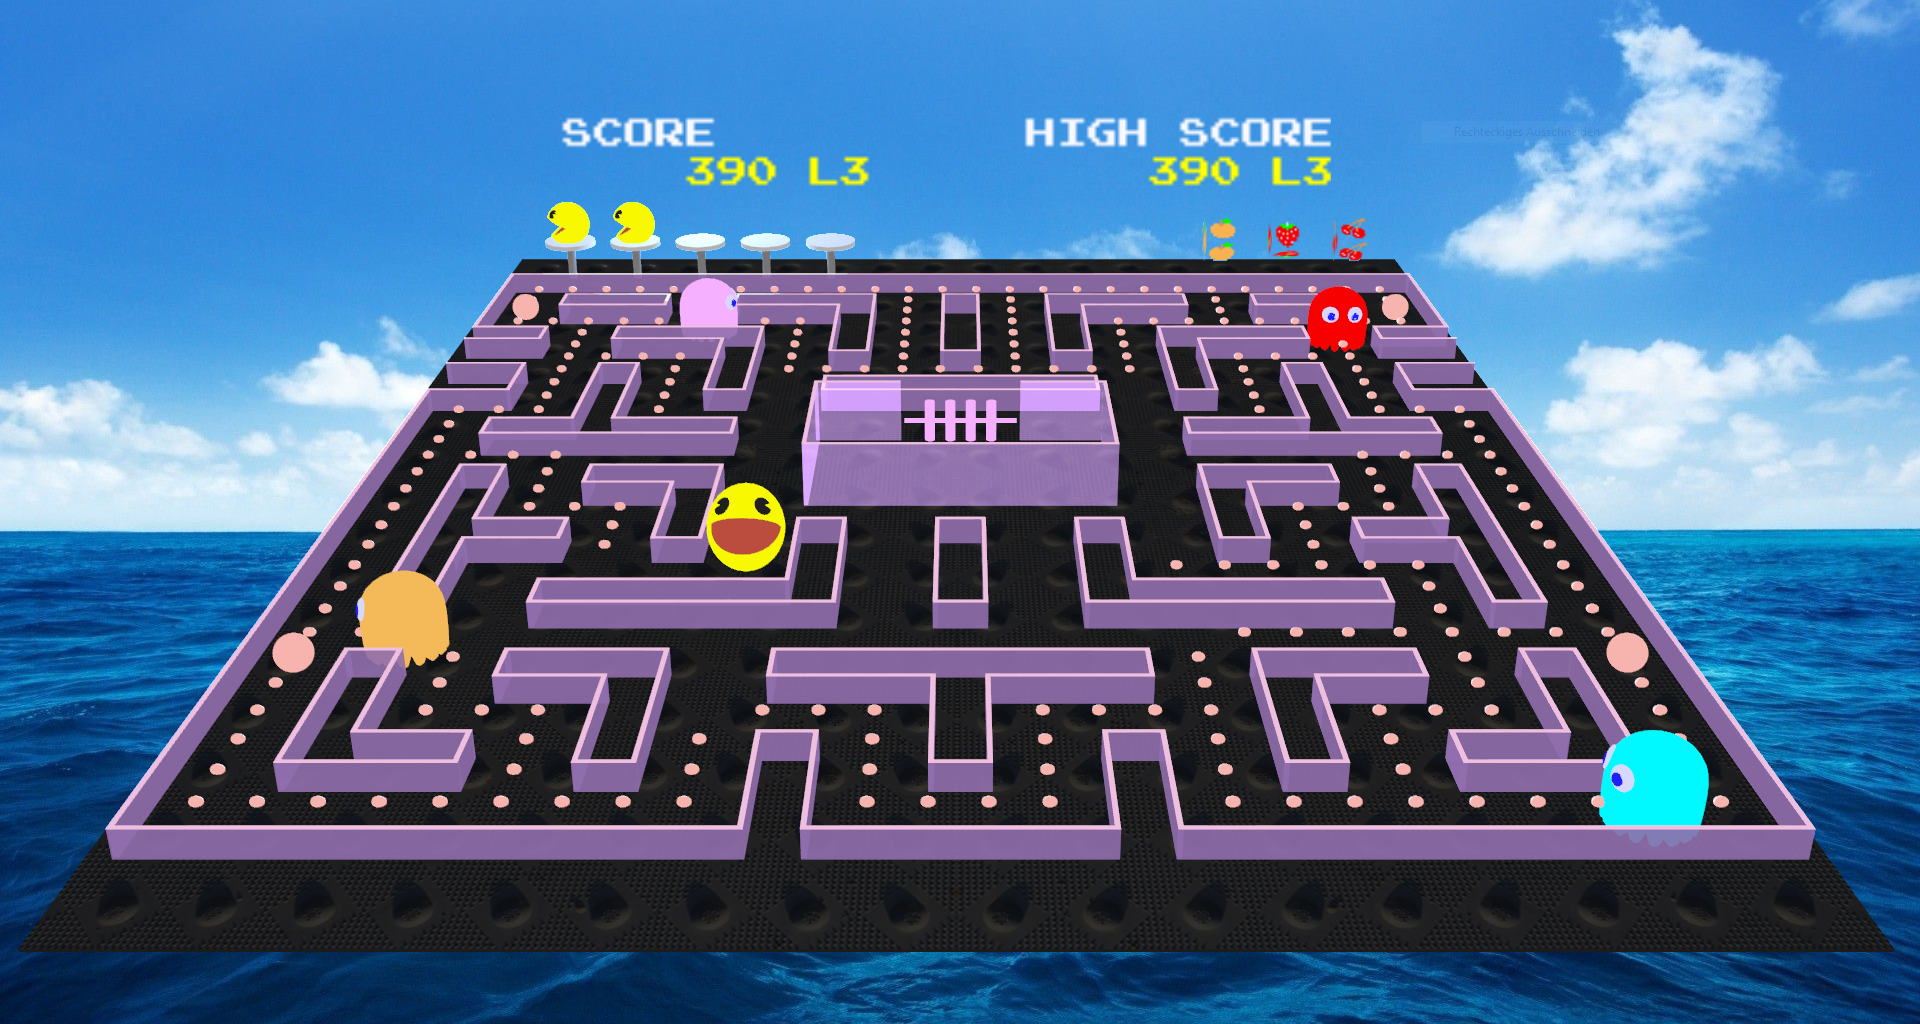
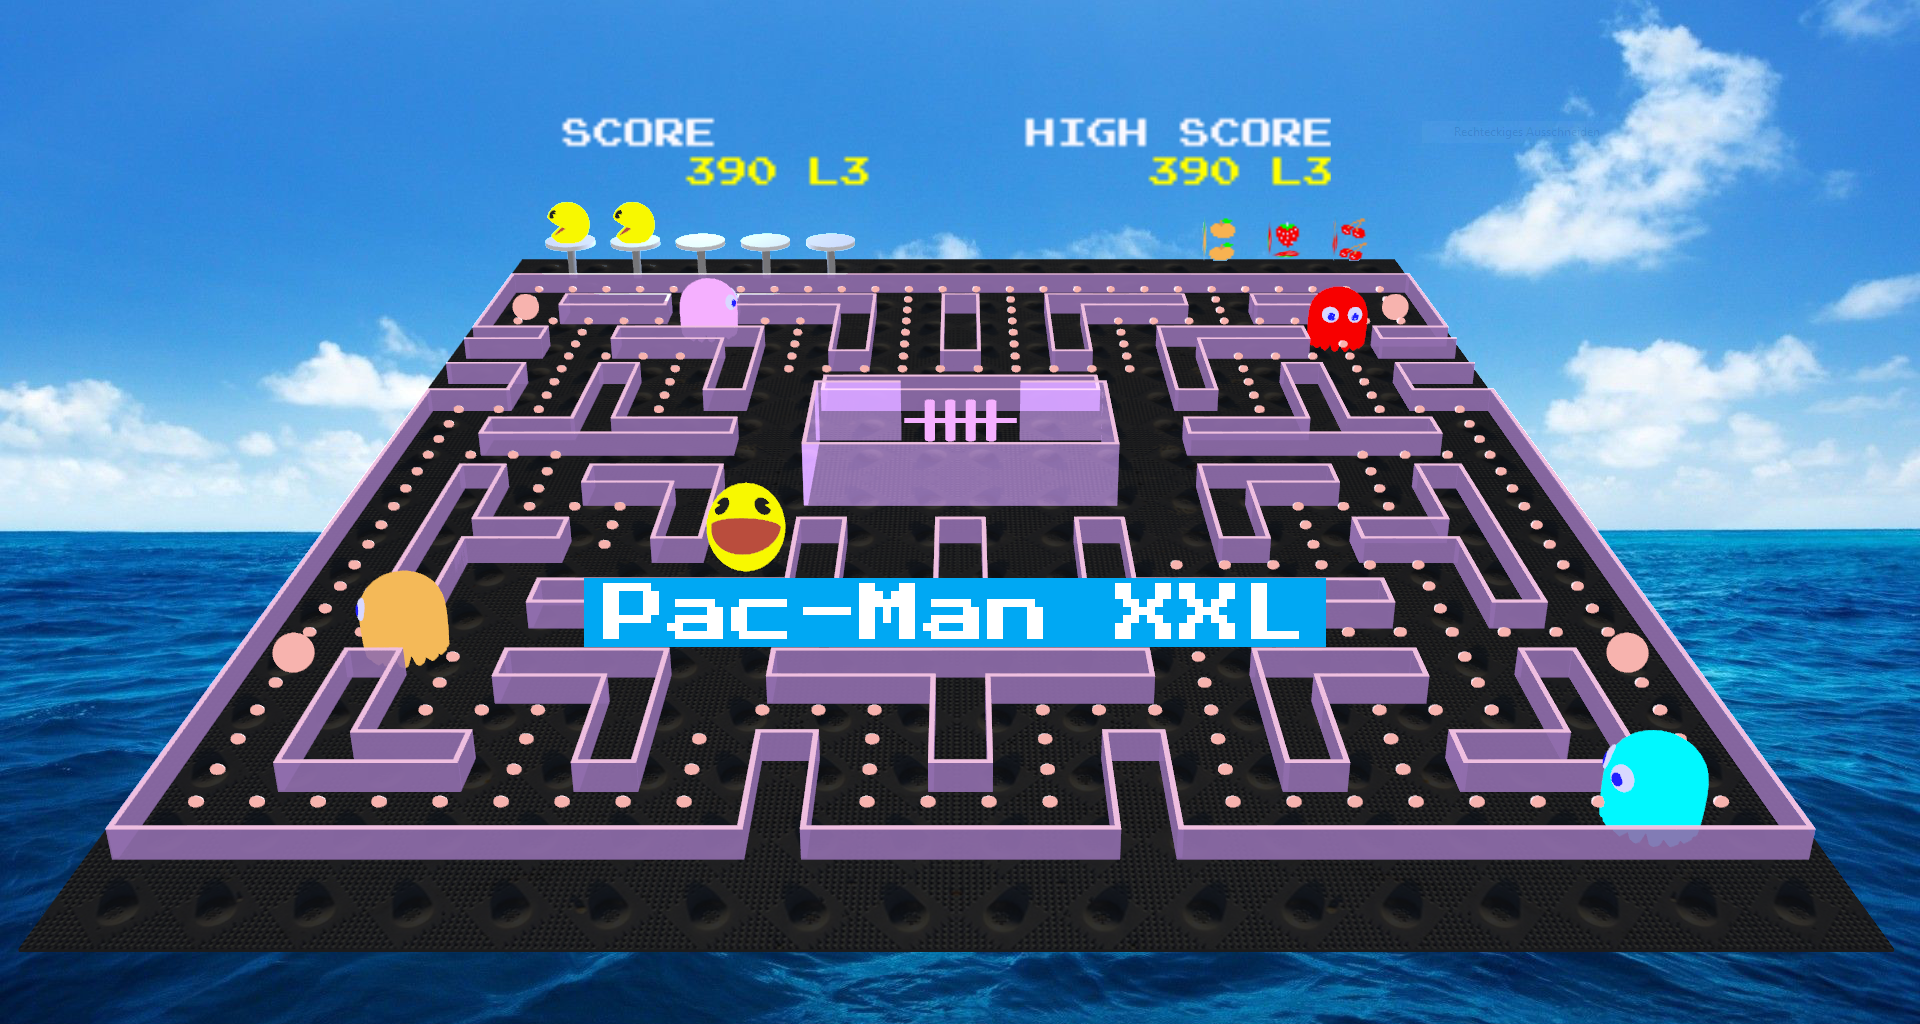
Support larger maps (incomplete)

Changed region(s): [[0.2812, 0.5625, 0.6875, 0.6562]]

diff --git a/pacman-core/src/main/java/de/amr/games/pacman/model/PacManXXLGame.java b/pacman-core/src/main/java/de/amr/games/pacman/model/PacManXXLGame.java
@@ -48,7 +48,13 @@ public class PacManXXLGame extends PacManGame{
     void buildRegularLevel(int levelNumber) {
         this.levelNumber = checkLevelNumber(levelNumber);
         switch (levelNumber) {
-            case 1 -> setWorldAndCreatePopulation(createPacManWorld());
+            case 1 -> {
+                if (customMaps.isEmpty()) {
+                    setWorldAndCreatePopulation(createPacManWorld());
+                } else {
+                    setWorldAndCreatePopulation(createModernWorld(customMaps.getFirst()));
+                }
+            }
             case 2, 3, 4, 5, 6, 7, 8, 9 -> {
                 var path = String.format("/maps/masonic/masonic_%d.world", levelNumber - 1);
                 var map = loadMap(path);
@@ -63,21 +69,6 @@ public class PacManXXLGame extends PacManGame{
         pac.setName("Pac-Man");
         pac.setAutopilot(new RuleBasedPacSteering(this));
         pac.setUseAutopilot(false);
-    }
-
-    @Override
-    void buildDemoLevel() {
-        levelNumber = 1;
-        if (customMaps.isEmpty()) {
-            setWorldAndCreatePopulation(createPacManWorld());
-        } else {
-            setWorldAndCreatePopulation(createModernWorld(customMaps.getFirst()));
-        }
-        pac.setName("Pac-Man");
-        pac.setAutopilot(world.getDemoLevelRoute().isEmpty()
-            ? new RuleBasedPacSteering(this)
-            : new RouteBasedSteering(world.getDemoLevelRoute()));
-        pac.setUseAutopilot(true);
     }
 
     @Override

diff --git a/pacman-ui-fx-2d/src/main/java/de/amr/games/pacman/ui/fx/PacManGames2dUI.java b/pacman-ui-fx-2d/src/main/java/de/amr/games/pacman/ui/fx/PacManGames2dUI.java
@@ -197,9 +197,8 @@ public class PacManGames2dUI implements GameEventListener, GameSceneContext, Act
         // Pac-Man XXL
         //
         theme.set("pacman_xxl.icon",                 rm.loadImage("graphics/icons/pacman.png"));
-        theme.set("pacman_xxl.startpage.image",      rm.loadImage("graphics/pacman/pacman_flyer.png"));
         theme.set("pacman_xxl.helpButton.icon",      rm.loadImage("graphics/icons/help-blue-64.png"));
-        theme.set("pacman_xxl.startpage.image",      rm.loadImage("graphics/pacman_xxl/pacman_xxl_3d.png"));
+        theme.set("pacman_xxl.startpage.image",      rm.loadImage("graphics/pacman_xxl/pacman_xxl_logo.png"));
     }
 
     protected static final Theme THEME_2D = new Theme();

diff --git a/pacman-ui-fx-3d/src/main/java/de/amr/games/pacman/ui/fx/v3d/entity/GameLevel3D.java b/pacman-ui-fx-3d/src/main/java/de/amr/games/pacman/ui/fx/v3d/entity/GameLevel3D.java
@@ -263,6 +263,12 @@ public class GameLevel3D extends Group {
             .map(corner -> TileMapPath.build(terrainMap, explored, corner, LEFT))
             .forEach(path -> buildWallsAlongPath(parent, path));
 
+        // Outer wall?
+        terrainMap.tiles(Tiles.DCORNER_NW)
+            .filter(handle -> !explored.get(terrainMap.index(handle)))
+            .map(handle -> TileMapPath.build(terrainMap, explored, handle, LEFT))
+            .forEach(path -> buildWallsAlongPath(parent, path));
+
         // Paths starting at left and right maze border (over and under tunnel ends)
         var handlesLeft = new ArrayList<Vector2i>();
         var handlesRight = new ArrayList<Vector2i>();

diff --git a/pacman-ui-fx-2d/src/main/java/de/amr/games/pacman/ui/fx/page/GamePage.java b/pacman-ui-fx-2d/src/main/java/de/amr/games/pacman/ui/fx/page/GamePage.java
@@ -102,6 +102,10 @@ public class GamePage extends CanvasLayoutPane implements Page {
         if (newGameScene instanceof GameScene2D scene2D) {
             scene2D.setCanvas(getCanvas());
             scene2D.clearCanvas();
+            if (context.game().world() != null) {
+                setUnscaledCanvasHeight(context.game().world().map().numRows() * TS);
+                setUnscaledCanvasWidth(context.game().world().map().numCols() * TS);
+            }
         }
     }
 
